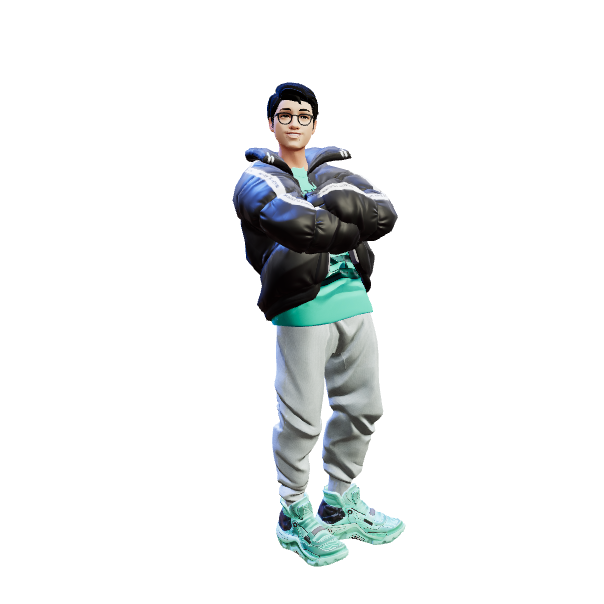
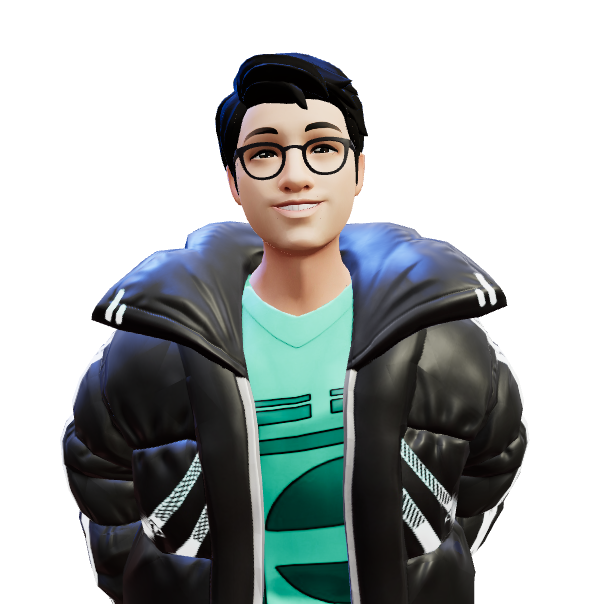
Fishing About me page and starting my skills page

diff --git a/src/pages/About.js b/src/pages/About.js
@@ -1,8 +1,10 @@
 import React from "react";
+import { Link } from "react-router-dom";
 
 import Menu from "../components/Menu";
+import MyAvatar from "../assets/avatar/MyAvatar2.png";
 import "../CSS/About.css";
-import "../CSS/Title.css";
+// import "../CSS/Title.css";
 
 export default function About() {
   return (
@@ -11,7 +13,7 @@ export default function About() {
       <div className="section-about">
         <section className="row300">
           <div className="container about-title">
-            <span>M</span>
+            {/* <span>M</span>
             <span>e</span>
             <span>, </span>
             <span>M</span>
@@ -21,59 +23,19 @@ export default function About() {
             <span>l</span>
             <span>f </span>
             <span>& </span>
-            <span>I</span>
+            <span>I</span> */}
+            Me, Myself & I
           </div>
-          <div>
-            <p>Teste</p>
-            <p>Teste</p>
-            <p>Teste</p>
-            <p>Teste</p>
+          <div className="about-text">
+            <p>I have knowledge in front-end and back-end web development, enjoy working in teams and keep lacking to learn more, not only in web development, but also in other areas encompassed by Software Engineering. In this way, acquire more experience.</p>
+            <p>Well-organised person, problem solver with high attention to detail. Fan of Games online, outdoor activities and TV series. A family person and lead by good friendships.</p>
+            <p>Undergraduate course: Trybe | 3º Período (03/2022 - 03/2023)</p>
+            <Link to="/contact"><p className="linkto">Let's make something special.</p></Link>
           </div>
         </section>
-        <table className="skills">
-          <tbody>
-            <tr>
-              <th>HTML:</th>
-              <td>
-                <div className="html" />
-              </td>
-              <th>CSS:</th>
-              <td>
-                <div className="css" />
-              </td>
-            </tr>
-            <tr>
-              <th>JavaScript:</th>
-              <td>
-                <div className="js" />
-              </td>
-              <th>JS Tests:</th>
-              <td>
-                <div className="js-test" />
-              </td>
-            </tr>
-            <tr>
-              <th>JQuery:</th>
-              <td>
-                <div className="jquery" />
-              </td>
-              <th>TypeScript:</th>
-              <td>
-                <div className="ts" />
-              </td>
-            </tr>
-            <tr>
-              <th>SQL:</th>
-              <td>
-                <div className="sql" />
-              </td>
-              <th>NODE.js:</th>
-              <td>
-                <div className="nodejs" />
-              </td>
-            </tr>
-          </tbody>
-        </table>
+        <div>
+          <img src={MyAvatar} alt="avatar" id="avatar2" />
+        </div>
       </div>
     </div>
   );

diff --git a/src/CSS/About.css b/src/CSS/About.css
@@ -15,80 +15,37 @@
 
 .about-title {
   /* border: 1px solid orange; */
+  color: #08fdd8;
+  /* font-family: 'Silkscreen', cursive; */
+  font-family: "Press Start 2P", cursive;
+  font-size: 48px;
+  font-weight: 900;
   text-align: start;
+  padding: 10px;
+}
+
+.about-text {
+  /* border: 1px solid red; */
+  width: 80%;
+}
+
+.linkto {
+  color: #08fdd8;
+}
+.linkto:hover {
+  color: #08fdd881;
 }
 
 .row300 div p {
   font-family: sans-serif;
 }
 
-/* TABLE SKILLS */
-.skills {
-  text-align: left;
-  color: #fff;
-  font-family: sans-serif;
-  font-size: 24px;
-}
-
-table {
-  top: 400px;
-  left: 1100px;
-  position: absolute;
-  width: 60vh;
-  height: 40vh;
-  display: table;
-  border-collapse: separate;
-  box-sizing: border-box;
-  text-indent: initial;
-  border-spacing: 2px;
-  border-color: grey;
-}
-
-th {
-  padding-left: 30px;
-}
-
-.skills tbody tr td div {
-  display: block;
-}
-
-.html {
-  padding: 20px 80px;
-  background-image: linear-gradient(to right, #08fdd8 80%, #cfcfcf 20%);
-  border-radius: 5px;
-}
-.css {
-  padding: 20px 80px;
-  background-image: linear-gradient(to right, #08fdd8 85%, #cfcfcf 15%);
-  border-radius: 5px;
-}
-.js {
-  padding: 20px 80px;
-  background-image: linear-gradient(to right, #08fdd8 75%, #cfcfcf 25%);
-  border-radius: 5px;
-}
-.js-test {
-  padding: 20px 80px;
-  background-image: linear-gradient(to right, #08fdd8 50%, #cfcfcf 50%);
-  border-radius: 5px;
-}
-.jquery {
-  padding: 20px 80px;
-  background-image: linear-gradient(to right, #08fdd8 70%, #cfcfcf 30%);
-  border-radius: 5px;
-}
-.ts {
-  padding: 20px 80px;
-  background: #cfcfcf 100%;
-  border-radius: 5px;
-}
-.sql {
-  padding: 20px 80px;
-  background: #cfcfcf 100%;
-  border-radius: 5px;
-}
-.nodejs {
-  padding: 20px 80px;
-  background: #cfcfcf 100%;
-  border-radius: 5px;
+#avatar2 {
+  width: 650px;
+  height: 650px;
+  opacity: 0.9;
+  position: fixed;
+  left: 790px;
+  top: 329px;
+  z-index: 4;
 }

diff --git a/src/CSS/Skills.css b/src/CSS/Skills.css
@@ -1,0 +1,71 @@
+/* TABLE SKILLS */
+.skills {
+    text-align: left;
+    color: #fff;
+    font-family: sans-serif;
+    font-size: 24px;
+  }
+  
+  table {
+    top: 400px;
+    left: 1100px;
+    position: absolute;
+    width: 60vh;
+    height: 40vh;
+    display: table;
+    border-collapse: separate;
+    box-sizing: border-box;
+    text-indent: initial;
+    border-spacing: 2px;
+    border-color: grey;
+  }
+  
+  th {
+    padding-left: 30px;
+  }
+  
+  .skills tbody tr td div {
+    display: block;
+  }
+  
+  .html {
+    padding: 20px 80px;
+    background-image: linear-gradient(to right, #08fdd8 80%, #cfcfcf 20%);
+    border-radius: 5px;
+  }
+  .css {
+    padding: 20px 80px;
+    background-image: linear-gradient(to right, #08fdd8 85%, #cfcfcf 15%);
+    border-radius: 5px;
+  }
+  .js {
+    padding: 20px 80px;
+    background-image: linear-gradient(to right, #08fdd8 75%, #cfcfcf 25%);
+    border-radius: 5px;
+  }
+  .js-test {
+    padding: 20px 80px;
+    background-image: linear-gradient(to right, #08fdd8 50%, #cfcfcf 50%);
+    border-radius: 5px;
+  }
+  .jquery {
+    padding: 20px 80px;
+    background-image: linear-gradient(to right, #08fdd8 70%, #cfcfcf 30%);
+    border-radius: 5px;
+  }
+  .ts {
+    padding: 20px 80px;
+    background: #cfcfcf 100%;
+    border-radius: 5px;
+  }
+  .sql {
+    padding: 20px 80px;
+    background: #cfcfcf 100%;
+    border-radius: 5px;
+  }
+  .nodejs {
+    padding: 20px 80px;
+    background: #cfcfcf 100%;
+    border-radius: 5px;
+  }
+  

diff --git a/src/pages/Skills.js b/src/pages/Skills.js
@@ -1,11 +1,56 @@
 import React from "react";
 
 import Menu from '../components/Menu';
+import '../CSS/Skills.css';
 
 export default function Skills() {
     return (
       <div>
         <Menu />
+        <table className="skills">
+          <tbody>
+            <tr>
+              <th>HTML:</th>
+              <td>
+                <div className="html" />
+              </td>
+              <th>CSS:</th>
+              <td>
+                <div className="css" />
+              </td>
+            </tr>
+            <tr>
+              <th>JavaScript:</th>
+              <td>
+                <div className="js" />
+              </td>
+              <th>JS Tests:</th>
+              <td>
+                <div className="js-test" />
+              </td>
+            </tr>
+            <tr>
+              <th>JQuery:</th>
+              <td>
+                <div className="jquery" />
+              </td>
+              <th>TypeScript:</th>
+              <td>
+                <div className="ts" />
+              </td>
+            </tr>
+            <tr>
+              <th>SQL:</th>
+              <td>
+                <div className="sql" />
+              </td>
+              <th>NODE.js:</th>
+              <td>
+                <div className="nodejs" />
+              </td>
+            </tr>
+          </tbody>
+        </table>
       </div>
     );
 }

diff --git a/src/components/ContactForm.jsx b/src/components/ContactForm.jsx
@@ -37,7 +37,7 @@ export default function ContactForm() {
   return (
     <form ref={form} onSubmit={sendEmail}>
       <div className="contact-container">
-        <h1 className="contact-title">Contact me</h1>
+        <h1 className="contact-title">Contact Me</h1>
         <p>
           I’m open for new opportunities. However, if you have other request or
           question, don’t hesitate to use the form.

diff --git a/src/CSS/ContactForm.css b/src/CSS/ContactForm.css
@@ -25,8 +25,10 @@ span {
 
 .contact-title {
   color: #08fdd8;
-  font-family: 'Silkscreen', cursive;
-  font-size: 70px;
+  /* font-family: 'Silkscreen', cursive; */
+  font-family: 'Press Start 2P', cursive;
+  padding-bottom: 10px;
+  font-size: 58px;
 }
 
 .contact-container {
